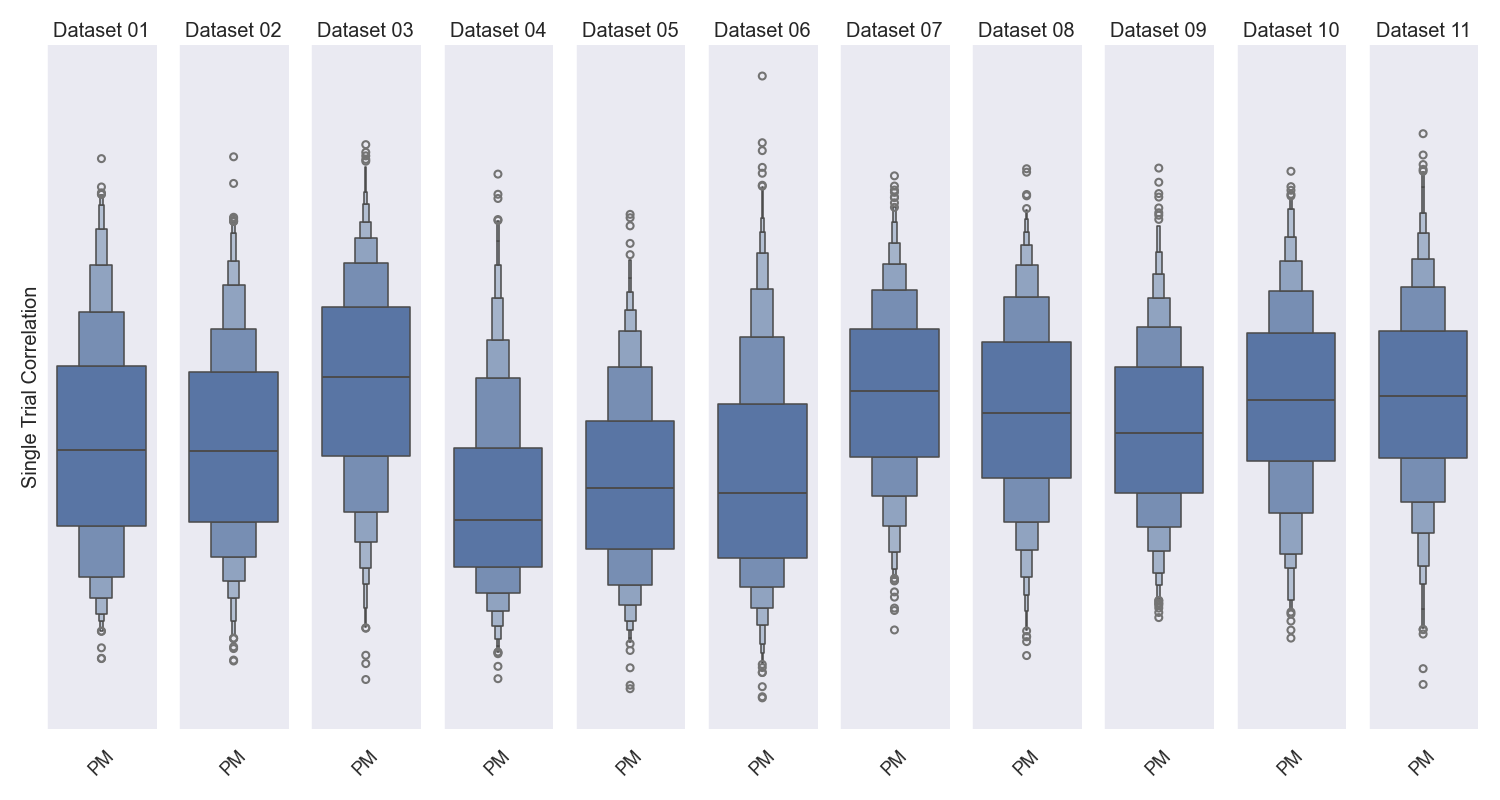
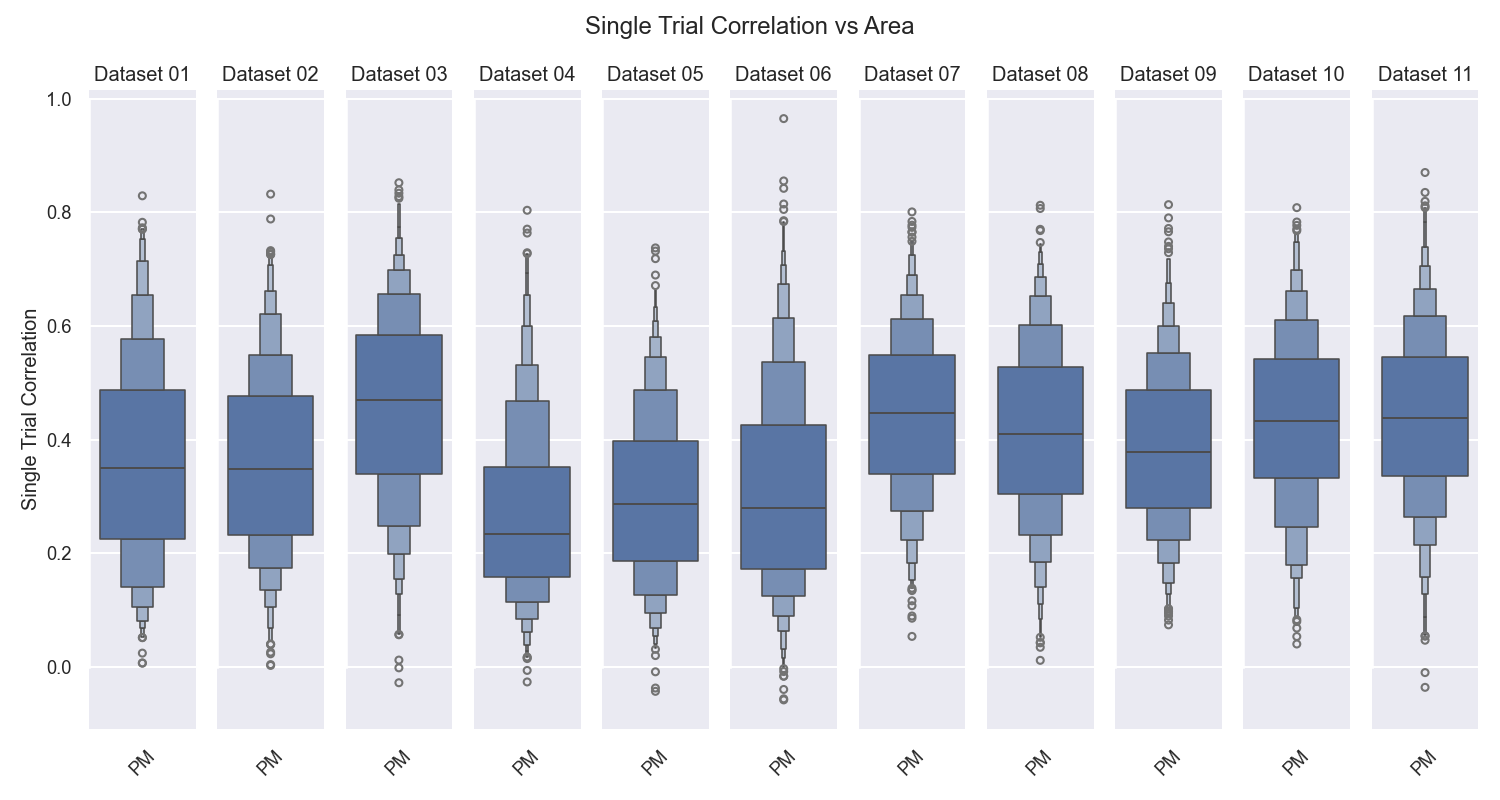
Made individual model's results' images

diff --git a/3. evaluate.py b/3. evaluate.py
@@ -133,7 +133,7 @@ single_trial_correlation = get_correlations(
     ensemble, dataloaders, tier=tier, device="cuda", as_dict=True)
 
 single_trial_correlation_list = []
-for i in range(5):
+for i in tqdm(range(5), desc="Getting Single Trial Correlations"):
     single_trial_correlation_list.append(get_correlations(
         model_list[i], dataloaders, tier=tier, device="cuda", as_dict=True))
 
@@ -142,7 +142,7 @@ df = get_df_for_scores(session_dict=single_trial_correlation,
                        )
 
 df_list = []
-for i in range(5):
+for i in tqdm(range(5), desc="Getting DF for Scores"):
     df_list.append(get_df_for_scores(session_dict=single_trial_correlation_list[i],
                                      measure_attribute="Single Trial Correlation"
                                      ))
@@ -154,7 +154,7 @@ for k in dataloaders[tier]:
 for i in range(5):
     for k in dataloaders[tier]:
         assert len(df_list[i][df_list[i]['dataset'] == k]) == len(dataloaders[tier][k].dataset.neurons.area), f"Length of df {i} and dataloader not equal, {len(df_list[i][df_list[i]['dataset'] == k])} != {len(dataloaders[tier][k].dataset.neurons.area)}"
-        df_list[i].loc[df_list[i]['dataset'] == k, 'area'] = dataloaders[tier][k].dataset
+        df_list[i].loc[df_list[i]['dataset'] == k, 'area'] = dataloaders[tier][k].dataset.neurons.area
 
 # data_basepath = "../molanalysis/data/IM/"
 data_basepath = f'{INPUT_FOLDER}/'
@@ -210,7 +210,7 @@ for k in dataloaders[tier]:
 # # Do pearson correlation
 # from scipy.stats import pearsonr
 
-# pearsonr(SNR, df['Single Trial Correlation'])
+# pearsonr(SNR, df['Single Trial Correlatiaon'])
 
 # # Do spearman correlation
 # from scipy.stats import spearmanr
@@ -244,16 +244,16 @@ for idx, (ax, (i, g)) in enumerate(zip(np.array(axes).reshape(-1), df.sort_value
     ax.set_xlabel("")  # Set the x-axis label
     ax.set_xticklabels(ax.get_xticklabels(), rotation=45) 
 
-    if idx > 0:
-        # remove y axis line
-        ax.spines['left'].set_visible(False)
-        ax.set_ylabel("")
-        ax.set_yticklabels([])
-        ax.set_yticks([])
-        ax.get_yaxis().set_visible(False)
+    # if idx > 0:
+    #     # remove y axis line
+    #     ax.spines['left'].set_visible(False)
+    #     ax.set_ylabel("")
+    #     ax.set_yticklabels([])
+    #     ax.set_yticks([])
+    #     ax.get_yaxis().set_visible(False)
 
-        for spine in ax.spines.values():
-            spine.set_visible(False)            
+    #     for spine in ax.spines.values():
+    #         spine.set_visible(False)            
 
 plt.suptitle("Single Trial Correlation vs Area")
 sns.despine(trim=True)
@@ -270,16 +270,16 @@ for i in range(5):
         ax.set_xlabel("")  # Set the x-axis label
         ax.set_xticklabels(ax.get_xticklabels(), rotation=45) 
 
-        if idx > 0:
-            # remove y axis line
-            ax.spines['left'].set_visible(False)
-            ax.set_ylabel("")
-            ax.set_yticklabels([])
-            ax.set_yticks([])
-            ax.get_yaxis().set_visible(False)
+        # if idx > 0:
+        #     # remove y axis line
+        #     ax.spines['left'].set_visible(False)
+        #     ax.set_ylabel("")
+        #     ax.set_yticklabels([])
+        #     ax.set_yticks([])
+        #     ax.get_yaxis().set_visible(False)
 
-            for spine in ax.spines.values():
-                spine.set_visible(False)            
+        #     for spine in ax.spines.values():
+        #         spine.set_visible(False)            
 
     plt.suptitle(f"Single Trial Correlation vs Area, Model {i}")
     sns.despine(trim=True)
@@ -295,16 +295,16 @@ for idx, (ax, (i, g)) in enumerate(zip(np.array(axes).reshape(-1), df.sort_value
     ax.set_xlabel("")  # Set the x-axis label
     ax.set_xticklabels(ax.get_xticklabels(), rotation=45) 
 
-    if idx > 0:
-        # remove y axis line
-        ax.spines['left'].set_visible(False)
-        ax.set_ylabel("")
-        ax.set_yticklabels([])
-        ax.set_yticks([])
-        ax.get_yaxis().set_visible(False)
+    # if idx > 0:
+    #     # remove y axis line
+    #     ax.spines['left'].set_visible(False)
+    #     ax.set_ylabel("")
+    #     ax.set_yticklabels([])
+    #     ax.set_yticks([])
+    #     ax.get_yaxis().set_visible(False)
 
-        for spine in ax.spines.values():
-            spine.set_visible(False)            
+    #     for spine in ax.spines.values():
+    #         spine.set_visible(False)            
 plt.suptitle("Single Trial Correlation vs Labeled")
 sns.despine(trim=True)
 plt.tight_layout()
@@ -320,16 +320,16 @@ for i in range(5):
         ax.set_xlabel("")  # Set the x-axis label
         ax.set_xticklabels(ax.get_xticklabels(), rotation=45) 
 
-        if idx > 0:
-            # remove y axis line
-            ax.spines['left'].set_visible(False)
-            ax.set_ylabel("")
-            ax.set_yticklabels([])
-            ax.set_yticks([])
-            ax.get_yaxis().set_visible(False)
+        # if idx > 0:
+        #     # remove y axis line
+        #     ax.spines['left'].set_visible(False)
+        #     ax.set_ylabel("")
+        #     ax.set_yticklabels([])
+        #     ax.set_yticks([])
+        #     ax.get_yaxis().set_visible(False)
 
-            for spine in ax.spines.values():
-                spine.set_visible(False)            
+        #     for spine in ax.spines.values():
+        #         spine.set_visible(False)            
 
     plt.suptitle(f"Single Trial Correlation vs Labeled, Model {i}")
     sns.despine(trim=True)
